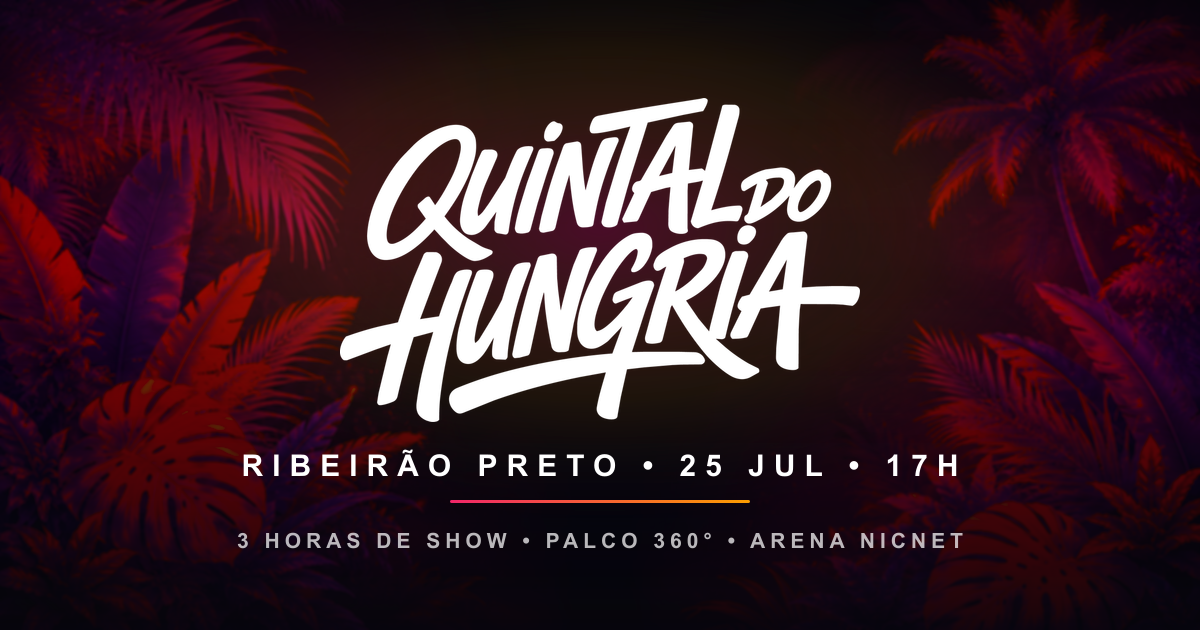
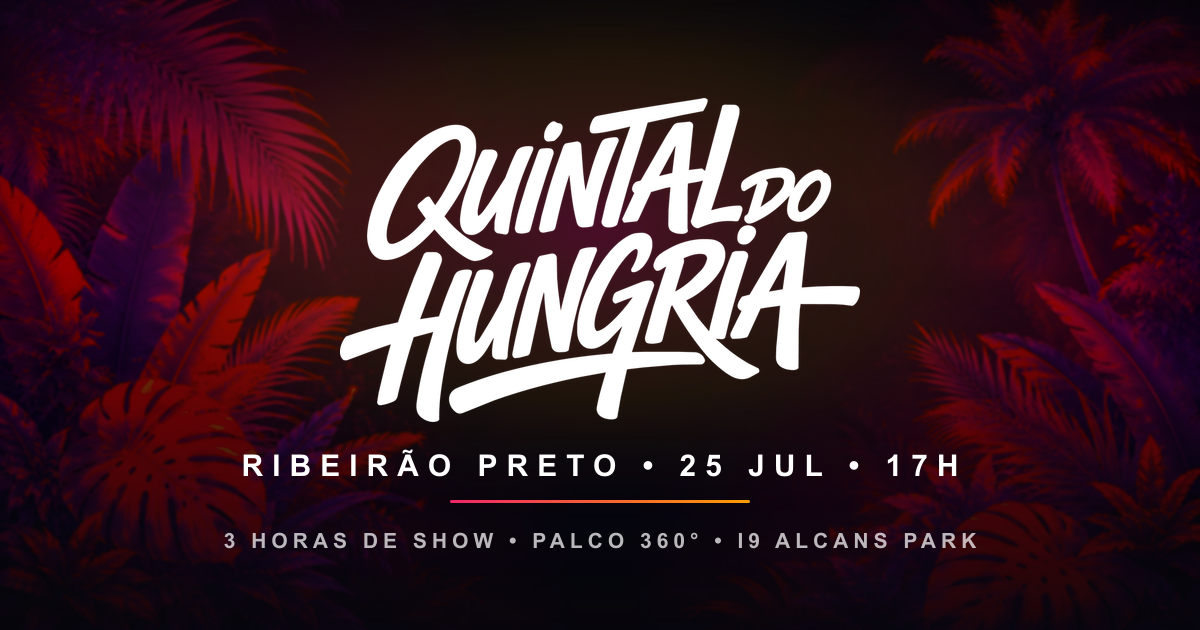
Locais atualizados: i9 Alcans Park (RP) e Rooftop BH Outlet (BH)
- Ribeirão Preto: Arena NicNet -> i9 Alcans Park em todo o site
  (hero, local, FAQ, turnê, SEO/OG) + mapa do Google reapontado por
  busca do lugar (em vez das coordenadas antigas da NicNet)
- Belo Horizonte: card da turnê ganha o local Rooftop BH Outlet
- Imagem de compartilhamento (OG) regenerada com o local novo
- Componentes passam a usar EVENT.venueShort (mudança futura em 1 lugar)

Changed region(s): [[0.185, 0.8444, 0.8325, 0.8746]]

diff --git a/lib/event.js b/lib/event.js
@@ -12,12 +12,12 @@
 //     Enquanto não houver link, mantém "#" (botões permanecem visíveis).
 export const TICKET_URL = 'https://www.guicheweb.com.br/quintal-do-hungria_52782'; // GuichêWeb — Ribeirão Preto (25/07)
 
-// Link do mapa / localização (Google Maps) — Arena NicNet, Ribeirão Preto.
+// Link do mapa / localização (Google Maps) — i9 Alcans Park, Ribeirão Preto.
 export const MAP_URL =
-  'https://www.google.com/maps/search/?api=1&query=-21.2023659,-47.7902054';
+  'https://www.google.com/maps/search/?api=1&query=i9+Alcans+Park,+Ribeir%C3%A3o+Preto+-+SP';
 // Embed (sem chave de API) usado no mapa interativo da seção Localização.
 export const MAP_EMBED_URL =
-  'https://www.google.com/maps?q=-21.2023659,-47.7902054&z=16&hl=pt-BR&output=embed';
+  'https://www.google.com/maps?q=i9+Alcans+Park,+Ribeir%C3%A3o+Preto&z=15&hl=pt-BR&output=embed';
 
 // Instagram oficial do Quintal do Hungria.
 export const INSTAGRAM_URL = 'https://www.instagram.com/quintaldohungria/';
@@ -29,8 +29,8 @@ export const EVENT = {
   date: '25 de julho',
   dateShort: '25 JUL',
   weekday: 'Sábado',
-  venue: 'Estacionamento Arena NicNet',
-  venueShort: 'Arena NicNet',
+  venue: 'i9 Alcans Park',
+  venueShort: 'i9 Alcans Park',
   doorsTime: '17H',
   showDuration: '3 horas',
   experienceDuration: '6 horas',
@@ -59,7 +59,7 @@ export const TOUR_DATES = [
     month: 'JUL',
     dateLabel: '25/07',
     city: 'Ribeirão Preto',
-    venue: 'Arena NicNet',
+    venue: 'i9 Alcans Park',
     status: 'active', // próxima data — único com acento da marca + CTA
     ticketUrl: TICKET_URL,
   },
@@ -79,7 +79,7 @@ export const TOUR_DATES = [
     month: 'OUT',
     dateLabel: '24/10',
     city: 'Belo Horizonte',
-    venue: null,
+    venue: 'Rooftop BH Outlet',
     status: 'confirmed',
     ticketUrl: null,
   },
@@ -154,7 +154,7 @@ export const NIGHT_JOURNEY = [
 export const FAQ = [
   {
     q: 'Onde será a próxima edição do Quintal do Hungria?',
-    a: 'A próxima parada da turnê é Ribeirão Preto, no Estacionamento Arena NicNet.',
+    a: 'A próxima parada da turnê é Ribeirão Preto, no i9 Alcans Park.',
   },
   {
     q: 'Quando acontece a próxima edição?',

diff --git a/app/layout.jsx b/app/layout.jsx
@@ -20,13 +20,13 @@ export const metadata = {
   metadataBase: new URL(siteUrl),
   title: 'Quintal do Hungria',
   description:
-    'O Quintal do Hungria na estrada: 6 horas de experiência em 360°, com 3 horas de show exclusivo do Hungria. Próxima parada: Ribeirão Preto, 25 de julho, Arena NicNet. Ingressos pela GuichêWeb.',
+    'O Quintal do Hungria na estrada: 6 horas de experiência em 360°, com 3 horas de show exclusivo do Hungria. Próxima parada: Ribeirão Preto, 25 de julho, i9 Alcans Park. Ingressos pela GuichêWeb.',
   applicationName: 'Quintal do Hungria',
   keywords: [
     'Quintal do Hungria',
     'Hungria',
     'Ribeirão Preto',
-    'Arena NicNet',
+    'i9 Alcans Park',
     'show',
     'palco 360',
     'ingressos',
@@ -37,7 +37,7 @@ export const metadata = {
   openGraph: {
     title: 'Quintal do Hungria — A turnê',
     description:
-      'Quintal do Hungria: 6 horas de experiência em 360°, com 3 horas de show exclusivo do Hungria. Próxima parada: Ribeirão Preto · 25 de julho · Arena NicNet.',
+      'Quintal do Hungria: 6 horas de experiência em 360°, com 3 horas de show exclusivo do Hungria. Próxima parada: Ribeirão Preto · 25 de julho · i9 Alcans Park.',
     url: '/',
     siteName: 'Quintal do Hungria',
     type: 'website',

diff --git a/components/LocationSection.jsx b/components/LocationSection.jsx
@@ -38,7 +38,7 @@ export default function LocationSection() {
         <Reveal>
           <SectionTag>A próxima parada</SectionTag>
           <h2 className="font-display mt-7 text-4xl leading-[0.95] sm:text-5xl lg:text-6xl">
-            Arena NicNet
+            {EVENT.venueShort}
             <br />
             <span className="text-gradient">{EVENT.city}</span>
           </h2>
@@ -61,7 +61,7 @@ export default function LocationSection() {
         <Reveal delay={0.12}>
           <div className="relative aspect-[4/3] overflow-hidden rounded-[2rem] border border-white/10 bg-ink-2 shadow-panel lg:aspect-[5/4]">
             <iframe
-              title="Mapa — Arena NicNet, Ribeirão Preto"
+              title="Mapa — i9 Alcans Park, Ribeirão Preto"
               src={MAP_EMBED_URL}
               className="absolute inset-0 h-full w-full border-0 [filter:invert(0.92)_hue-rotate(180deg)_brightness(0.95)_contrast(0.92)]"
               loading="lazy"

diff --git a/components/HeroSection.jsx b/components/HeroSection.jsx
@@ -176,7 +176,7 @@ export default function HeroSection() {
               <span className="text-sm font-semibold text-gold">{EVENT.doorsTime}</span>
             </div>
             <p className="mt-1 text-[11px] uppercase tracking-[0.18em] text-white/45">
-              Arena NicNet · {EVENT.city}
+              {EVENT.venueShort} · {EVENT.city}
             </p>
             <div className="mt-4 border-t border-white/10 pt-4 text-[11px] font-semibold uppercase tracking-[0.16em] text-white/70">
               6H de experiência · 3H de Hungria

diff --git a/components/AtmosphereGallery.jsx b/components/AtmosphereGallery.jsx
@@ -118,7 +118,7 @@ export default function AtmosphereGallery() {
             <span className="text-gradient">Ribeirão</span> vai viver.
           </h2>
           <p className="mt-6 max-w-lg text-base leading-relaxed text-white/60">
-            Registros de shows anteriores do Hungria — a energia que vai tomar conta da Arena NicNet.
+            Registros de shows anteriores do Hungria — a energia que vai tomar conta do Quintal.
           </p>
         </Reveal>
       </div>
